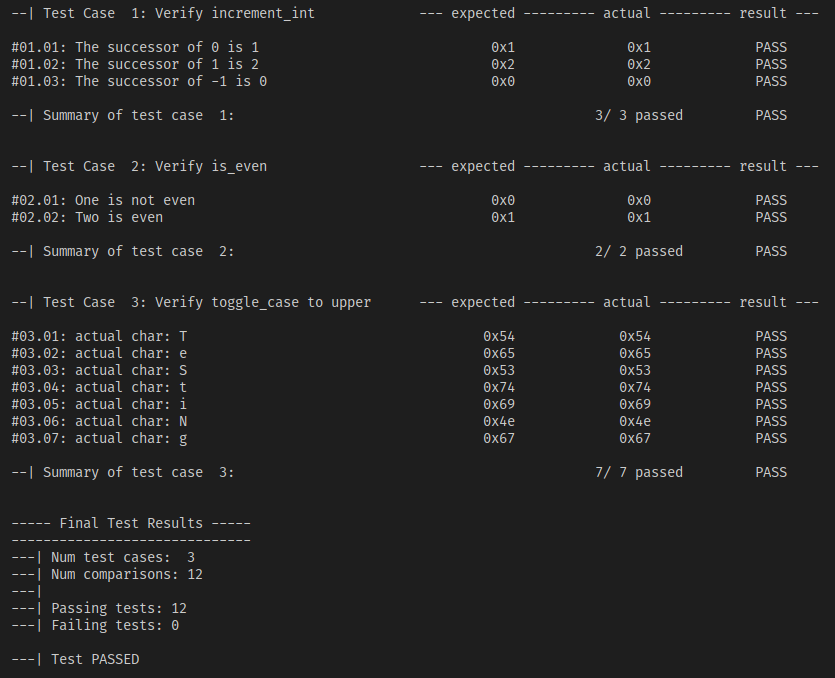
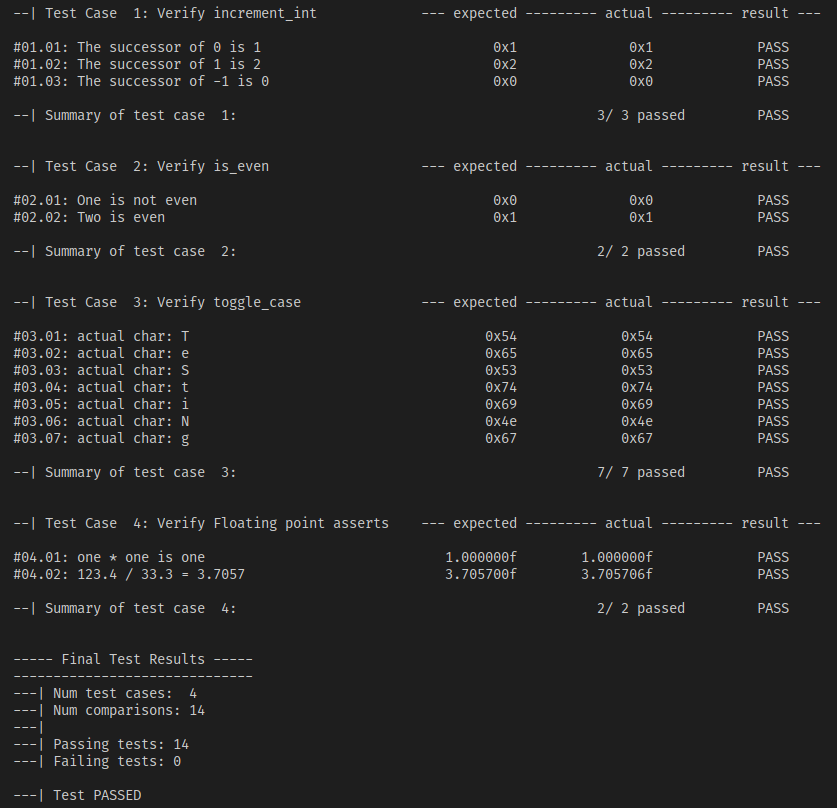
update readme and example png for fl32 assert method

diff --git a/README.md b/README.md
@@ -2,8 +2,6 @@
 
 ## This repository contains the c_test_lib library to assist in writing and running unit tests, as well as the structure and support for a c-language project.
 
-## *** This is in its very early stages. For now you can compare unsigned 32 bit integers only ***
-
 ## Project Structure:
 - Your .c source files go in ./src/
 - Your .h header files go in ./include/
